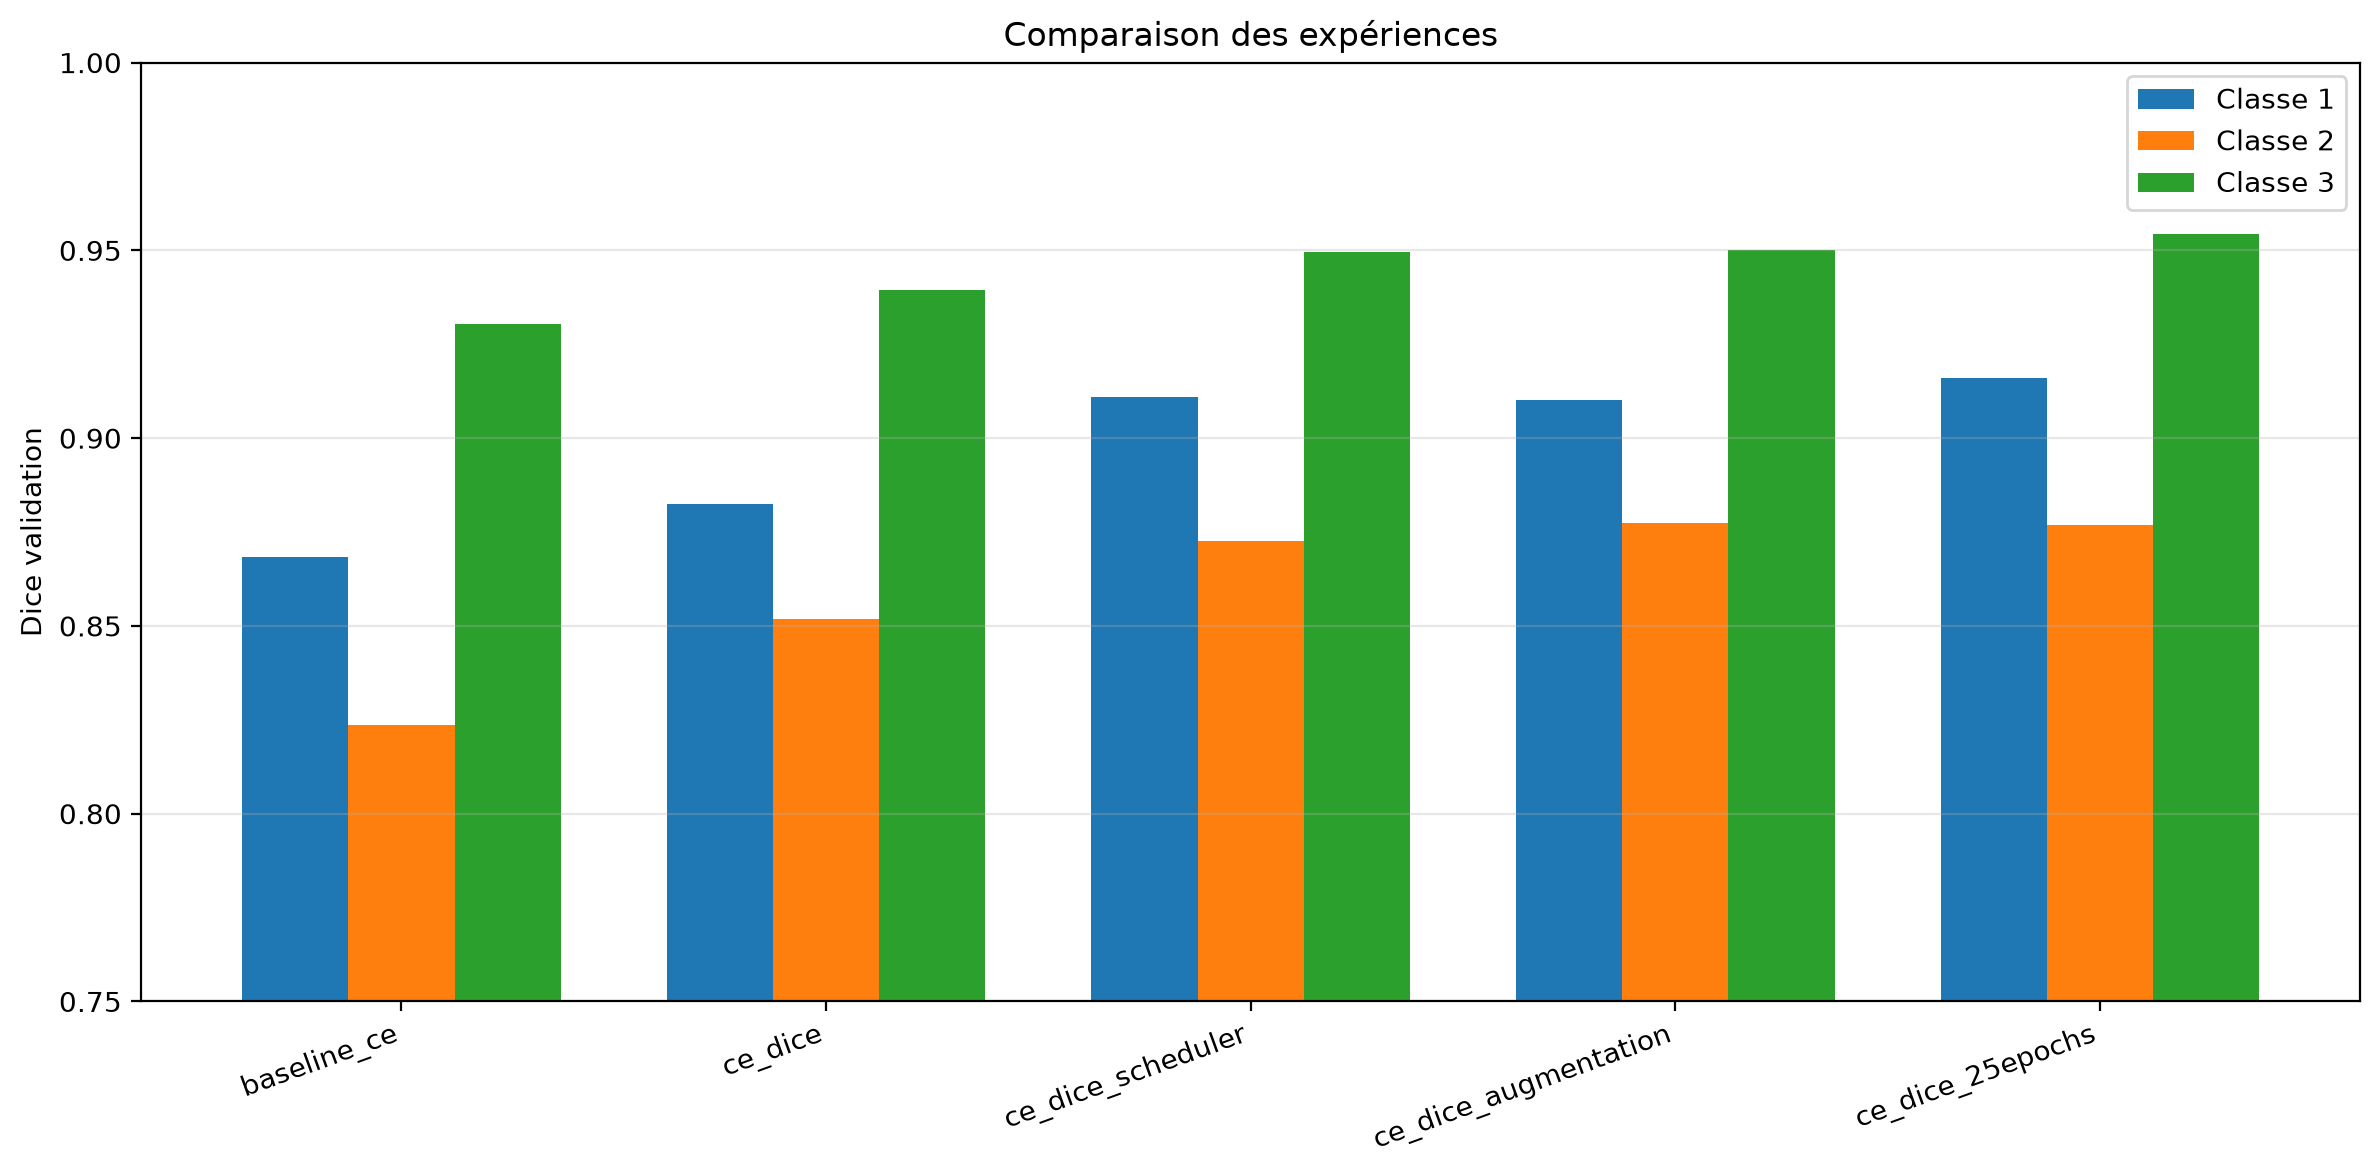
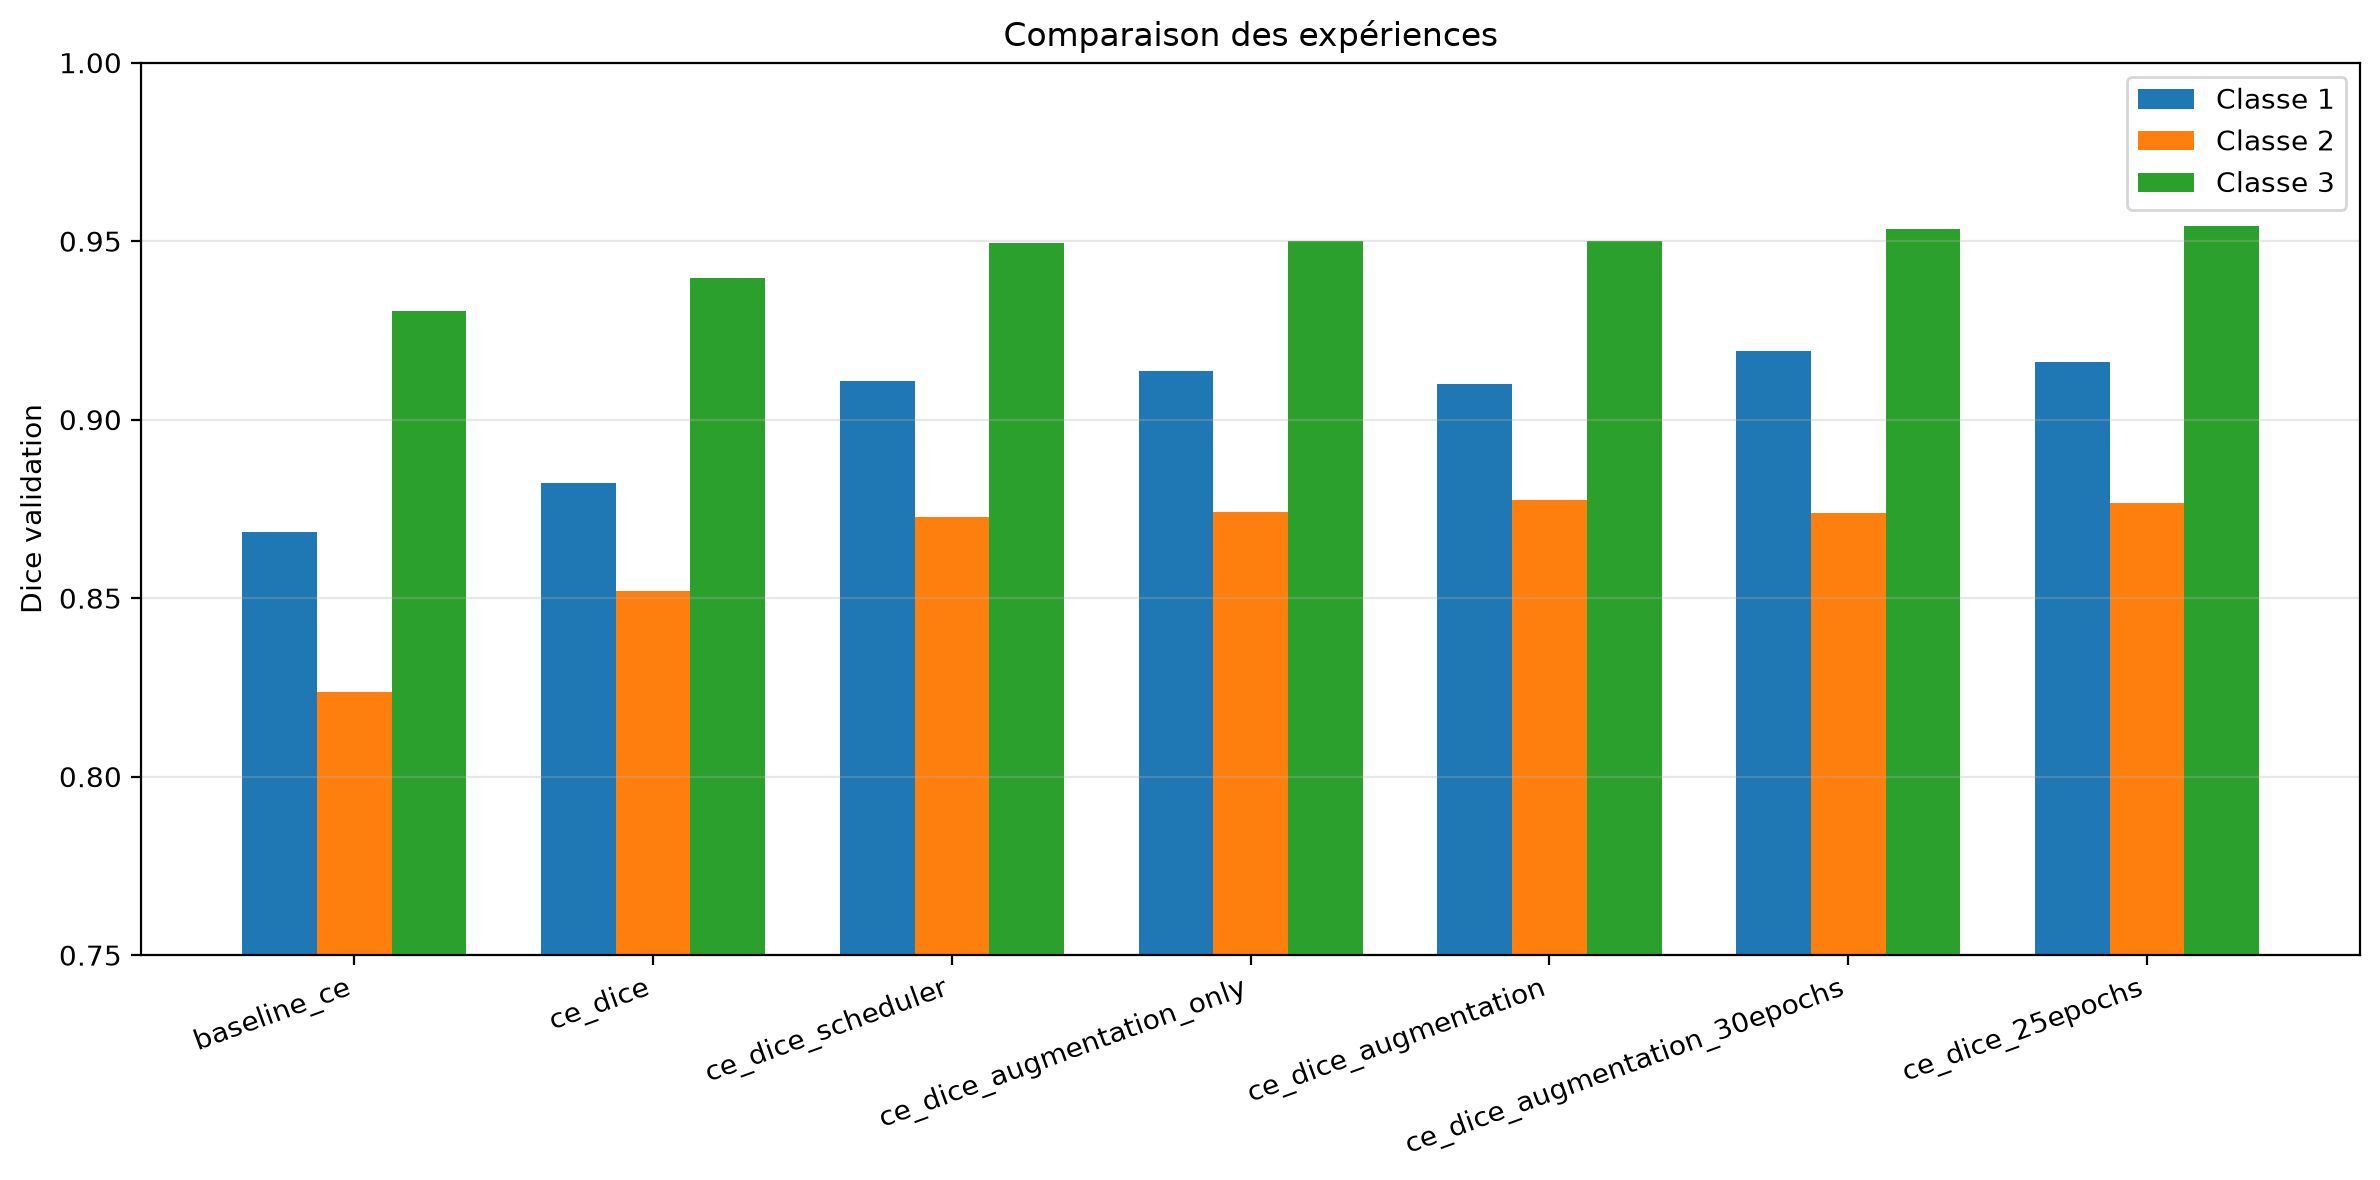
add new experiments

diff --git a/README.md b/README.md
@@ -62,6 +62,24 @@ python -m scripts.evaluation.visualize_predictions
 python -m scripts.evaluation.evaluate_test
 ```
 
+Comparer automatiquement les expériences :
+
+```bash
+python -m scripts.evaluation.compare_experiments
+```
+
+Calculer les résultats séparément pour chaque patient :
+
+```bash
+python -m scripts.evaluation.evaluate_per_patient
+```
+
+Créer les superpositions pour la présentation :
+
+```bash
+python -m scripts.evaluation.visualize_overlays
+```
+
 Lancer les tests :
 
 ```bash
@@ -102,10 +120,48 @@ Le nom de l'expérience active est défini avec `EXPERIMENT_NAME` dans
 | `ce_dice` | Cross-Entropy + Dice, 10 époques, batch 8 | 0.8913 |
 | `ce_dice_25epochs` | Cross-Entropy + Dice, 25 époques, batch 8 | **0.9157** |
 | `ce_dice_scheduler` | Scheduler, 30 époques, batch 16 | 0.9110 |
+| `ce_dice_augmentation_only` | Augmentation, 25 époques, batch 8 | 0.9125 |
+| `ce_dice_augmentation_30epochs` | Augmentation, 30 époques, batch 8 | 0.9155 |
 | `ce_dice_augmentation` | Augmentation + scheduler, 30 époques, batch 16 | 0.9125 |
 
 Le modèle final est `ce_dice_25epochs`, sélectionné uniquement avec les
 résultats de validation.
+
+### Analyse des expériences
+
+L'ajout de la Dice Loss à la Cross-Entropy améliore le Dice de validation
+de `0.8742` à `0.8913`. Le gain principal concerne la classe 2 :
+
+| Métrique | Cross-Entropy | CE + Dice | Gain |
+|---|---:|---:|---:|
+| Dice moyen | 0.8742 | 0.8913 | +0.0171 |
+| Classe 1 | 0.8684 | 0.8823 | +0.0139 |
+| Classe 2 | 0.8237 | 0.8519 | **+0.0282** |
+| Classe 3 | 0.9305 | 0.9396 | +0.0091 |
+
+Prolonger l'entraînement de 10 à 25 époques produit un second gain
+important :
+
+| Métrique | 10 époques | 25 époques | Gain |
+|---|---:|---:|---:|
+| Dice moyen | 0.8913 | **0.9157** | +0.0245 |
+| Classe 1 | 0.8823 | 0.9161 | +0.0338 |
+| Classe 2 | 0.8519 | 0.8768 | +0.0248 |
+| Classe 3 | 0.9396 | 0.9543 | +0.0147 |
+
+Le meilleur checkpoint est obtenu à l'époque 21. Les performances
+atteignent ensuite un plateau autour de `0.91`.
+
+Le scheduler stabilise la fin de l'entraînement, mais ne dépasse pas le
+meilleur modèle. Son effet ne peut pas être complètement isolé car cette
+expérience utilise aussi un batch de 16.
+
+L'augmentation seule atteint `0.9125` après 25 époques et `0.9155` après
+30 époques. Elle ne produit donc pas de gain mesurable par rapport au
+modèle sans augmentation (`0.9157`).
+
+Les valeurs de loss ne sont pas comparées entre la baseline et les
+autres expériences, car elles correspondent à des fonctions différentes.
 
 ## Résultats finaux
 
@@ -127,7 +183,12 @@ patient est :
 ```
 
 Le meilleur patient obtient `0.9549` et le cas le plus difficile
-`0.7619`.
+`0.7619` :
+
+```text
+Meilleur patient : patient078
+Pire patient     : patient037
+```
 
 | Dice par patient | Moyenne ± écart-type |
 |---|---:|
@@ -137,6 +198,18 @@ Le meilleur patient obtient `0.9549` et le cas le plus difficile
 
 Les fichiers détaillés et les courbes sont disponibles dans
 `outputs/experiments/`. 
+
+Le Dice test global est presque identique au Dice de validation :
+
+```text
+Validation : 0.9157
+Test       : 0.9163
+Écart      : +0.0006
+```
+
+Cette proximité indique que le modèle généralise correctement sur les
+patients non vus. La classe 3 est la plus facile à segmenter. La classe 1
+présente la plus forte variabilité entre patients.
 
 ### Comparaison des expériences
 
